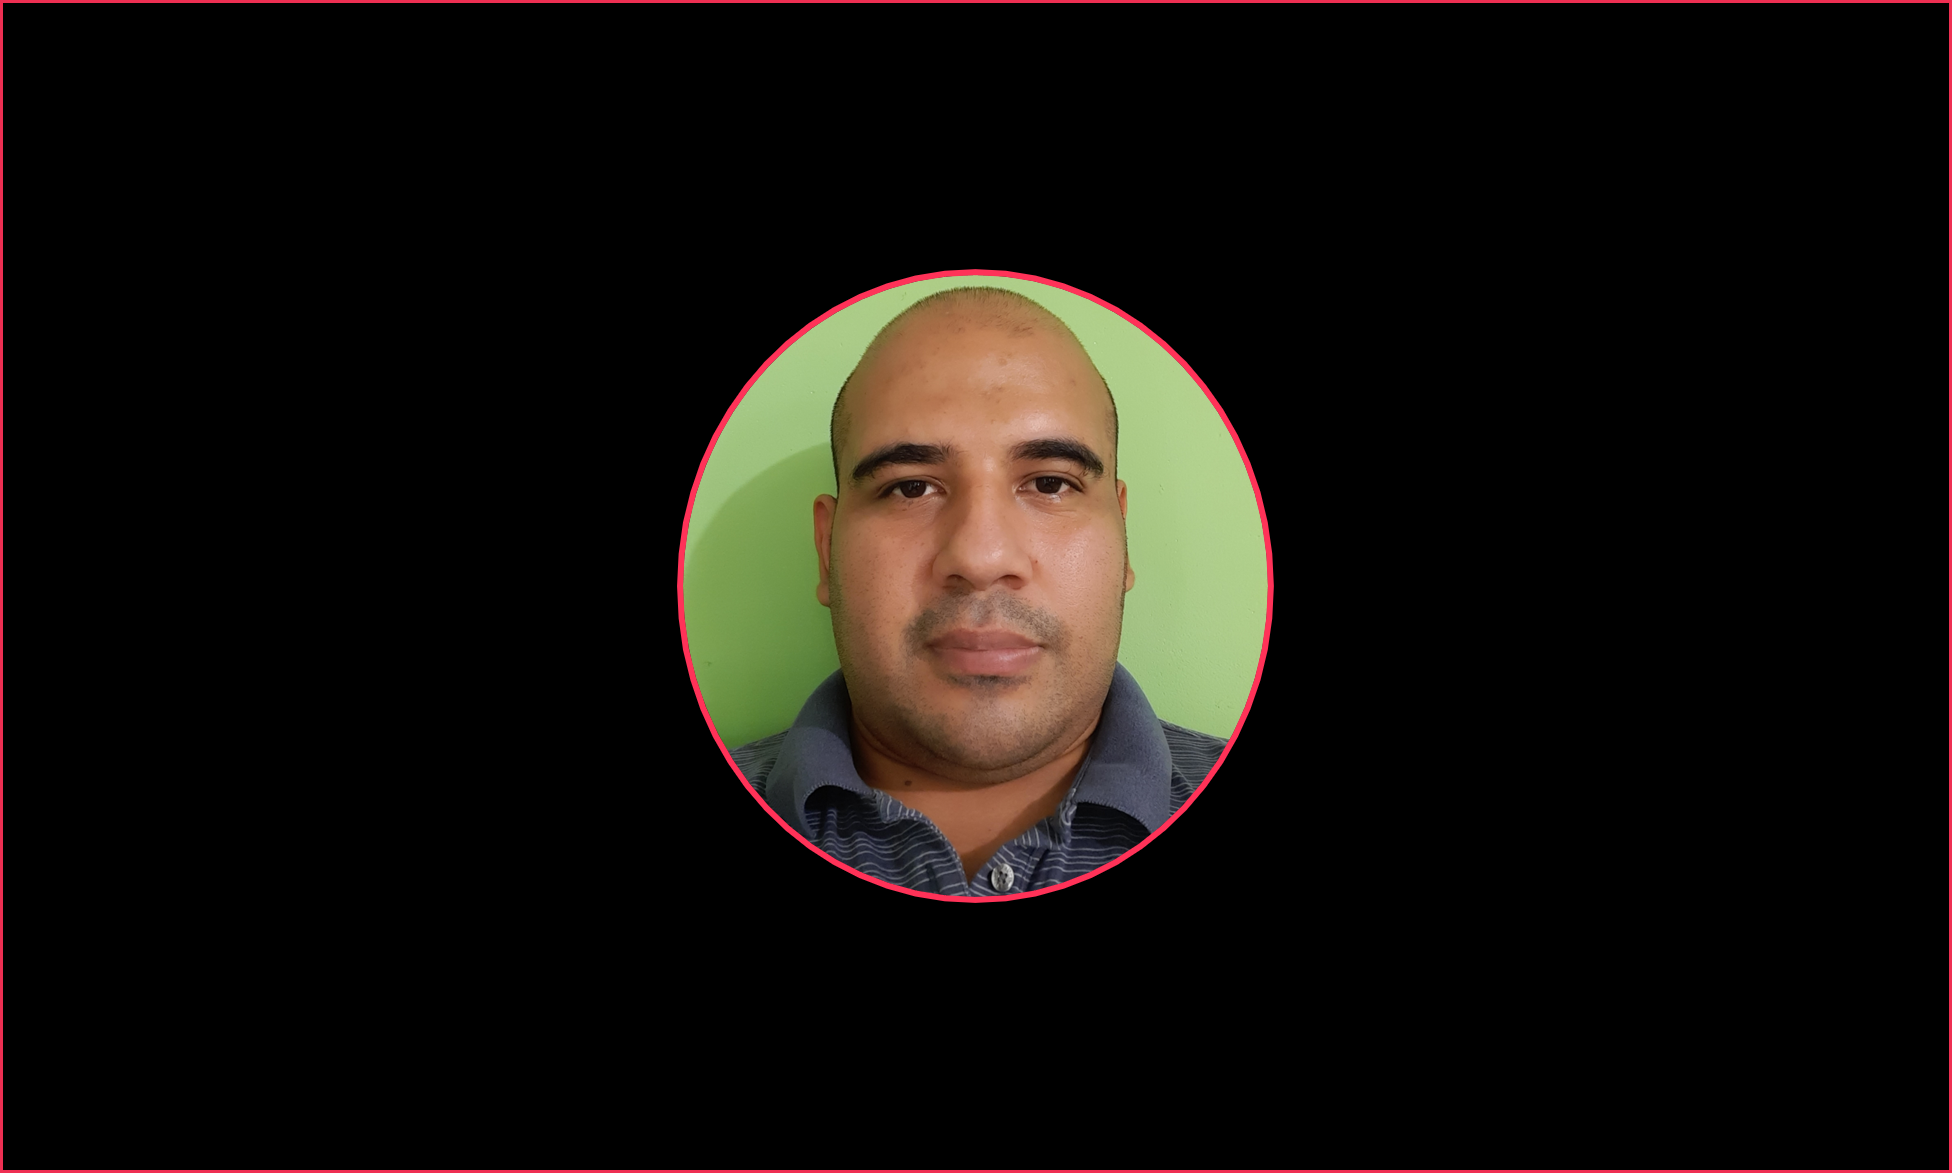
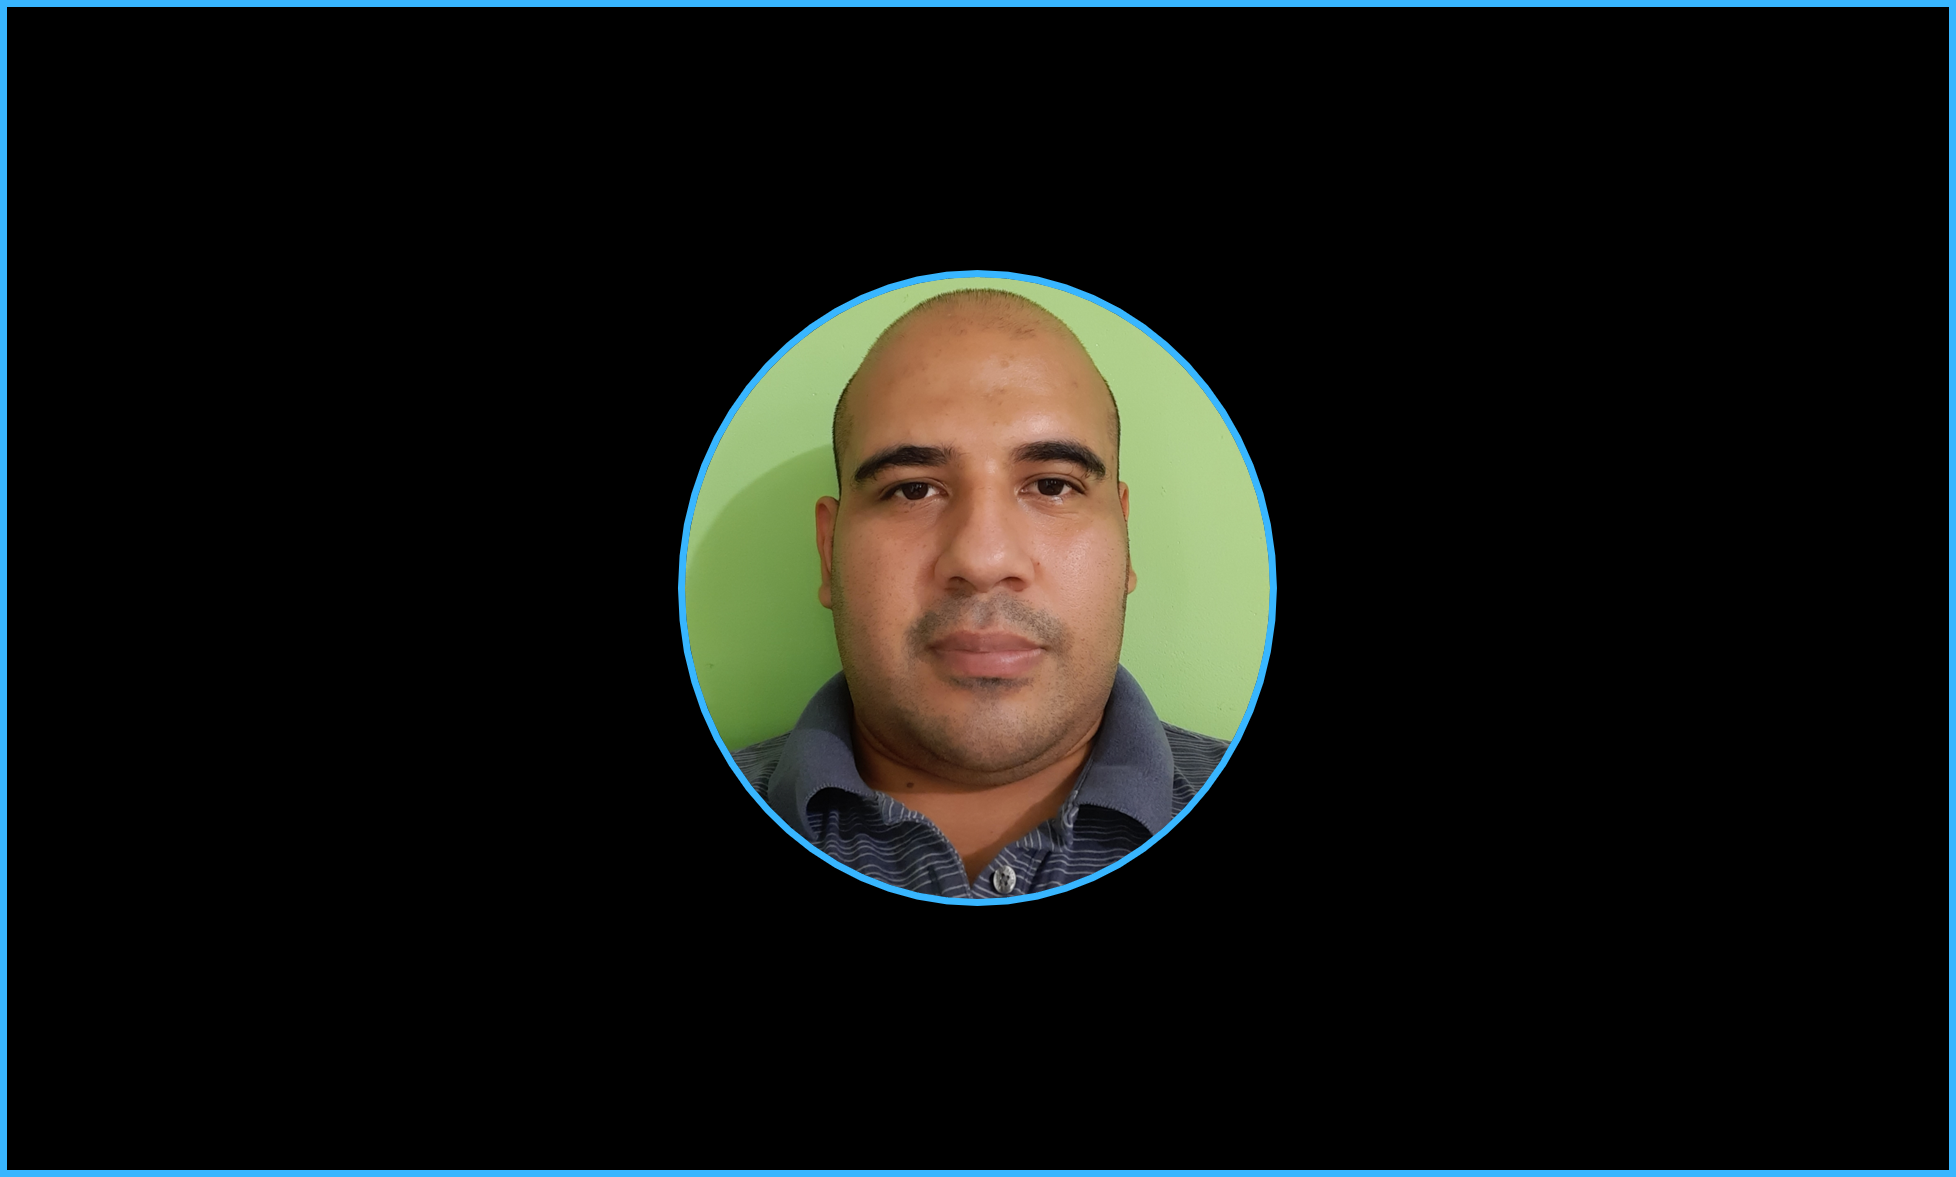
update

diff --git a/index.css b/index.css
@@ -34,7 +34,7 @@
     --line-height-small: 1.2;
 
     --black: #000;
-    --pink: #ff3258;
+    --pink: #38b6ff;
     --white: #f0e9f2;
     --white-1: #e5e5e6da;
 
@@ -149,7 +149,7 @@ h2::after {
     display: block;
     height: 2px;
     width: 10rem;
-    background: var(--pink);
+    background: #38b6ff;
     margin: var(--gutter-small) 0;
 }
 
@@ -200,7 +200,7 @@ a {
 
 button:focus,
 a:focus {
-    outline: 2px solid var(--pink);
+    outline: 2px solid #38b6ff;
 }
 
 body:not(.user-is-tabbing) button:focus,
@@ -209,7 +209,7 @@ body:not(.user-is-tabbing) a:focus {
 }
 
 .link:hover {
-    color: var(--pink);
+    color: #38b6ff;
 }
 
 .btn {
@@ -218,7 +218,7 @@ body:not(.user-is-tabbing) a:focus {
     padding: 1rem 4.2rem;
     text-decoration: none;
     color: inherit;
-    border: 1px solid  var(--pink);
+    border: 2px solid  #38b6ff;
     font-weight: 400;
 }
 
@@ -242,11 +242,11 @@ body:not(.user-is-tabbing) a:focus {
 .btn:hover::after,
 .btn:focus::after {
     right: 0;
-    background: var(--pink);
+    background: #38b6ff;
 }
 
 .btn--pink {
-    background: var(--pink);
+    background: #38b6ff;
     transition: all 0.2s;
 }
 
@@ -265,7 +265,7 @@ body:not(.user-is-tabbing) a:focus {
     padding: .6rem;
     color: inherit;
     text-decoration: none;
-    border-bottom: 1px solid var(--pink);
+    border-bottom: 1px solid #38b6ff;
 }
 
 .link__text::after {
@@ -288,7 +288,7 @@ body:not(.user-is-tabbing) a:focus {
 .link__text:hover::after,
 .link__text:focus:after {
     right: 0;
-    background: var(--pink);
+    background: #38b6ff;
 }
 
 .link__text span {
@@ -307,7 +307,7 @@ body:not(.user-is-tabbing) a:focus {
     align-items: center;
     height: 5.5rem;
     width: 5.5rem;
-    background-color: var(--pink);
+    background-color: #38b6ff;
     border-radius: 50%;
     z-index: 10;
     visibility: hidden;
@@ -389,13 +389,13 @@ body:not(.user-is-tabbing) a:focus {
 }
 
 .nav__link:hover {
-    color: var(--pink);
+    color: #38b6ff;
 }
 
 .nav__link:hover::after {
     right: 0;
     height: 2px;
-    background: var(--pink);
+    background: #38b6ff;
 }
 
 
